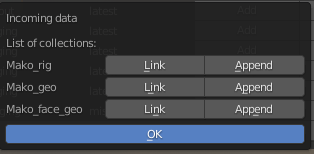
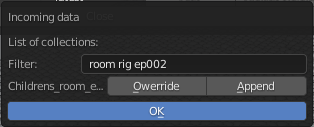
source panel

diff --git a/docs/source/manual/work_panel.rst b/docs/source/manual/work_panel.rst
@@ -49,9 +49,11 @@ Sources panel
    #. кнопка :guilabel:`Add`
    #. кнопка :guilabel:`Reload version`
 
-   :guilabel:`Add` - активна только приналичии какой либо версии, откроет список коллекций файла версии и две возможности загрузки, сделать ``link`` или ``append``.
+   :guilabel:`Add` - активна только приналичии какой либо версии, откроет список коллекций файла версии и две возможности загрузки, сделать ``Owerride`` или ``Append``.
 
    .. image:: ../_static/images/source_panel_add_panel.png
+
+   * В панели так же имеется фильтр по наименованию коллекции, можно вводить несколько поисковых слов через пробелл.
 
 
    :guilabel:`Reload version` - откроет список версий входящей задачи на сервере с возможностью загрузки.
